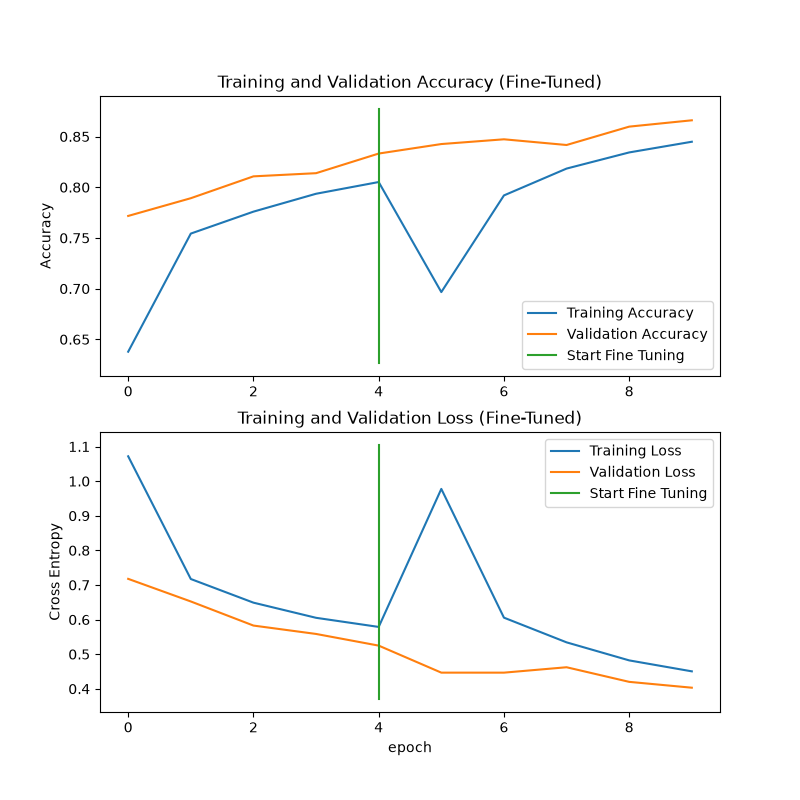
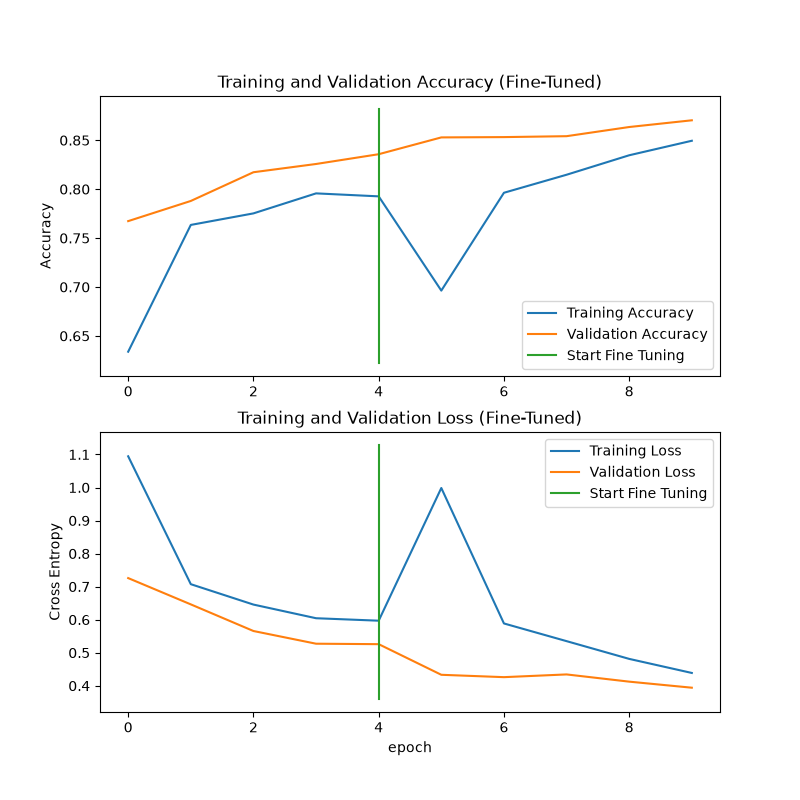
feat: add project proposal generator and real-time plant disease detection via live webcam scanner

diff --git a/live_camera.py b/live_camera.py
@@ -1,0 +1,107 @@
+import cv2
+import numpy as np
+import tensorflow as tf
+import os
+
+os.environ['TF_CPP_MIN_LOG_LEVEL'] = '2'
+
+import argparse
+
+def main():
+    parser = argparse.ArgumentParser()
+    parser.add_argument('--camera', type=int, default=0, help='Camera index (0 for built-in, 1 for external/iPhone)')
+    args = parser.parse_args()
+
+    print("Loading AI Model (this might take a few seconds)...")
+    model = tf.keras.models.load_model('plant_disease_model.keras')
+    with open('labels.txt', 'r') as f:
+        class_names = [line.strip() for line in f.readlines()]
+        
+    print(f"Opening Webcam (Index {args.camera})...")
+    cap = cv2.VideoCapture(args.camera)
+    
+    if not cap.isOpened():
+        print("Error: Could not open webcam. Check your permissions.")
+        return
+
+    print("\n" + "="*40)
+    print("Webcam opened! Press 'q' to quit.")
+    print("="*40 + "\n")
+
+    while True:
+        ret, frame = cap.read()
+        if not ret:
+            break
+
+        hsv = cv2.cvtColor(frame, cv2.COLOR_BGR2HSV)
+        
+        # STRICT green color range to ignore yellow walls and dark hair
+        # Hue 35-85 is strictly green. Saturation > 40 ignores greys/blacks.
+        lower_green = np.array([35, 40, 40])
+        upper_green = np.array([85, 255, 255])
+        mask = cv2.inRange(hsv, lower_green, upper_green)
+        
+        # Clean up the mask to remove tiny noise
+        kernel = np.ones((5, 5), np.uint8)
+        mask = cv2.morphologyEx(mask, cv2.MORPH_OPEN, kernel)
+        
+        contours, _ = cv2.findContours(mask, cv2.RETR_EXTERNAL, cv2.CHAIN_APPROX_SIMPLE)
+        
+        # Sort contours by area, keep top 3 largest leaves
+        contours = sorted(contours, key=cv2.contourArea, reverse=True)[:3]
+        
+        boxes_drawn = 0
+        for cnt in contours:
+            area = cv2.contourArea(cnt)
+            if area > 8000: # Minimum size for a leaf
+                x, y, w, h = cv2.boundingRect(cnt)
+                
+                # Make the bounding box square so we don't warp the leaf when resizing
+                center_x, center_y = x + w//2, y + h//2
+                size = max(w, h)
+                x1 = max(0, center_x - size//2)
+                y1 = max(0, center_y - size//2)
+                x2 = min(frame.shape[1], center_x + size//2)
+                y2 = min(frame.shape[0], center_y + size//2)
+                
+                roi = frame[y1:y2, x1:x2]
+                if roi.shape[0] == 0 or roi.shape[1] == 0:
+                    continue
+                    
+                roi_rgb = cv2.cvtColor(roi, cv2.COLOR_BGR2RGB)
+                roi_resized = cv2.resize(roi_rgb, (224, 224))
+                img_array = tf.keras.utils.img_to_array(roi_resized)
+                img_array = tf.expand_dims(img_array, 0)
+                
+                # Predict
+                predictions = model.predict(img_array, verbose=0)
+                score = predictions[0]
+                max_score = np.max(score)
+                
+                if max_score > 0.40:
+                    predicted_class = class_names[np.argmax(score)]
+                    label = predicted_class.replace('___', ' - ').replace('_', ' ').title()
+                    text = f"{label} ({max_score*100:.0f}%)"
+                    color = (0, 255, 0) if "Healthy" in label else (0, 0, 255)
+                else:
+                    text = f"Uncertain ({max_score*100:.0f}%)"
+                    color = (0, 255, 255)
+                    
+                cv2.rectangle(frame, (x1, y1), (x2, y2), color, 2)
+                cv2.putText(frame, text, (x1, y1 - 10), cv2.FONT_HERSHEY_SIMPLEX, 0.6, color, 2)
+                boxes_drawn += 1
+
+        # If no leaves are found, put a small hint at the bottom
+        if boxes_drawn == 0:
+            cv2.putText(frame, "Scanning for green leaves...", (10, frame.shape[0] - 30), cv2.FONT_HERSHEY_SIMPLEX, 0.8, (255, 255, 255), 2)
+
+        cv2.imshow("Tomato Disease Live Scanner", frame)
+        
+        if cv2.waitKey(1) & 0xFF == ord('q'):
+            break
+            
+    cap.release()
+    cv2.destroyAllWindows()
+
+if __name__ == "__main__":
+    main()

diff --git a/generate_proposal.py b/generate_proposal.py
@@ -1,0 +1,67 @@
+from fpdf import FPDF
+
+class ProposalPDF(FPDF):
+    def header(self):
+        self.set_font('Helvetica', 'B', 15)
+        self.cell(0, 10, 'Project Proposal', 0, 1, 'C')
+        self.ln(10)
+
+    def chapter_title(self, title):
+        self.set_font('Helvetica', 'B', 12)
+        self.set_fill_color(200, 220, 255)
+        self.cell(0, 8, title, 0, 1, 'L', 1)
+        self.ln(4)
+
+    def chapter_body(self, body):
+        self.set_font('Helvetica', '', 11)
+        self.multi_cell(0, 6, body)
+        self.ln(6)
+
+def create_pdf():
+    pdf = ProposalPDF()
+    pdf.add_page()
+
+    pdf.chapter_title('Project Title')
+    pdf.chapter_body('EcoSort: An AI-Powered Automated Smart Waste Sorting System')
+
+    pdf.chapter_title('Problem Statement')
+    problem = (
+        "Proper waste segregation is critical for environmental sustainability, as contaminated recycling streams "
+        "cost municipalities millions of dollars annually and result in tons of recyclable materials being diverted to landfills. "
+        "In public spaces, humans frequently misclassify their waste due to confusing guidelines or negligence, leading to high "
+        "contamination rates. An automated system that removes human error from the sorting process is essential to improving "
+        "recycling efficiency, reducing landfill footprint, and advancing smart city infrastructure."
+    )
+    pdf.chapter_body(problem)
+
+    pdf.chapter_title('Proposed Solution & Hardware')
+    solution = (
+        "We propose building an automated 'Smart Bin' equipped with an Edge AI computer vision pipeline to classify and sort waste "
+        "in real-time. \n\n"
+        "Platform & Hardware:\n"
+        "- Core Processor: Raspberry Pi 4 (or equivalent microcontroller for edge computing).\n"
+        "- Vision: Raspberry Pi Camera Module to capture images of the discarded item.\n"
+        "- Actuators: Servo motors to physically tilt a sorting platform or open the correct internal chute (Trash, Recycling, Compost).\n"
+        "- AI Model: A highly accurate, quantized Convolutional Neural Network (such as MobileNetV2 or YOLO) deployed via TensorFlow Lite.\n\n"
+        "Implementation:\n"
+        "When an item is placed on the bin's scanning tray, an ultrasonic sensor triggers the camera. The Raspberry Pi processes the image "
+        "using the TFLite model, classifying the item into one of the designated categories. Based on the model's high-confidence prediction, "
+        "a GPIO signal is sent to the servo motors to drop the item into the correct bin compartment, completely automating the segregation process."
+    )
+    pdf.chapter_body(solution)
+
+    pdf.chapter_title('Objectives')
+    objectives = (
+        "By the end of the project term, we aim to achieve the following:\n"
+        "1. Hardware Assembly: Construct a functional prototype of a smart bin with an integrated camera, scanning tray, and servo-driven sorting mechanism.\n"
+        "2. Model Training: Train and deploy a lightweight, quantized image classification model capable of distinguishing between common waste categories (e.g., plastic bottles, aluminum cans, paper, and general trash) with an accuracy exceeding 90%.\n"
+        "3. System Integration: Successfully integrate the AI software pipeline with the physical hardware, achieving real-time inference and mechanical sorting within 2 seconds per item.\n"
+        "4. Demonstration: Provide a live demonstration of the system correctly sorting a mixed set of items, validating its potential for real-world environmental impact."
+    )
+    pdf.chapter_body(objectives)
+
+    pdf.output('Project_Proposal_EcoSort.pdf')
+    print("PDF generated successfully.")
+
+if __name__ == '__main__':
+    create_pdf()
